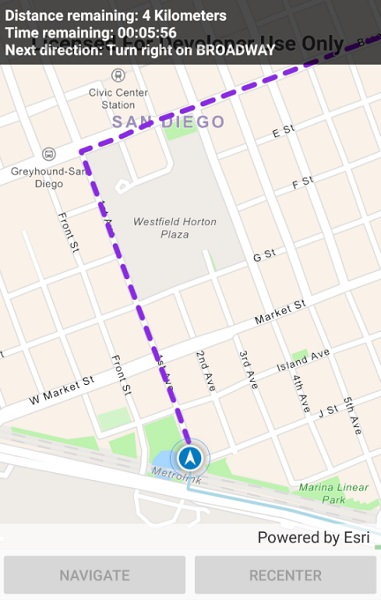
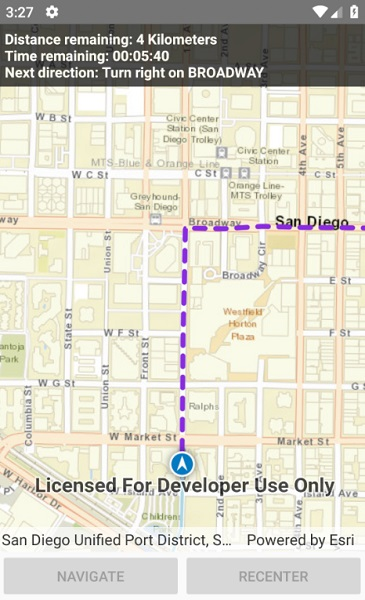
Updated android

diff --git a/src/Android/Xamarin.Android/Samples/Network Analysis/NavigateRoute/NavigateRoute.cs b/src/Android/Xamarin.Android/Samples/Network Analysis/NavigateRoute/NavigateRoute.cs
@@ -43,14 +43,21 @@ namespace ArcGISRuntimeXamarin.Samples.NavigateRoute
         private Button _recenterButton;
         private TextView _status;
 
+        // Variables for tracking the navigation route.
         private RouteTracker _tracker;
         private RouteResult _routeResult;
         private Route _route;
 
+        // List of driving directions for the route.
         private IReadOnlyList<DirectionManeuver> _directionsList;
+
+        // Speech synthesizer to play voice guidance audio.
         private TextToSpeech _textToSpeech;
+
+        // String to hold route status for the UI.
         private string _statusMessage;
 
+        // Graphics to show progress along the route.
         private Graphic _routeAheadGraphic;
         private Graphic _routeTraveledGraphic;
 
@@ -61,7 +68,7 @@ namespace ArcGISRuntimeXamarin.Samples.NavigateRoute
         private readonly MapPoint _destinationLocation = new MapPoint(-117.147230, 32.730467, SpatialReferences.Wgs84);
 
         // Feature service for routing in San Diego.
-        private readonly Uri _routingUri = new Uri("http://sampleserver6.arcgisonline.com/arcgis/rest/services/NetworkAnalysis/SanDiego/NAServer/Route");
+        private readonly Uri _routingUri = new Uri("https://sampleserver6.arcgisonline.com/arcgis/rest/services/NetworkAnalysis/SanDiego/NAServer/Route");
 
         protected override void OnCreate(Bundle bundle)
         {
@@ -78,7 +85,7 @@ namespace ArcGISRuntimeXamarin.Samples.NavigateRoute
             try
             {
                 // Create the map view.
-                _myMapView.Map = new Map(Basemap.CreateNavigationVector());
+                _myMapView.Map = new Map(Basemap.CreateStreets());
 
                 // Create the text to speech object.
                 _textToSpeech = new TextToSpeech(this, this, "com.google.android.tts");
@@ -128,10 +135,13 @@ namespace ArcGISRuntimeXamarin.Samples.NavigateRoute
 
                 // Set the map viewpoint to show the entire route.
                 await _myMapView.SetViewpointGeometryAsync(_route.RouteGeometry, 100);
+
+                // Enable the navigation button.
+                _navigateButton.Enabled = true;
             }
             catch (Exception e)
             {
-                Console.WriteLine(e.Message);
+                new AlertDialog.Builder(this).SetMessage(e.Message).SetTitle("Error").Show();
             }
         }
 
@@ -155,7 +165,7 @@ namespace ArcGISRuntimeXamarin.Samples.NavigateRoute
             _myMapView.LocationDisplay.AutoPanModeChanged += AutoPanModeChanged;
 
             // Add a data source for the location display.
-            _myMapView.LocationDisplay.DataSource = new RouteTrackerLocationDataSource(new FakeLocationProvider(_route.RouteGeometry), _tracker);
+            _myMapView.LocationDisplay.DataSource = new RouteTrackerDisplayLocationDataSource(new FakeLocationProvider(_route.RouteGeometry), _tracker);
             // Use this instead if you want real location:
             // _myMapView.LocationDisplay.DataSource = new RouteTrackerLocationDataSource(new SystemLocationDataSource(), _tracker);
 
@@ -251,12 +261,12 @@ namespace ArcGISRuntimeXamarin.Samples.NavigateRoute
      * This location data source uses an input data source and a route tracker.
      * The location source that it updates is based on the snapped-to-route location from the route tracker.
      */
-    public class RouteTrackerLocationDataSource : LocationDataSource
+    public class RouteTrackerDisplayLocationDataSource : LocationDataSource
     {
         private LocationDataSource _inputDataSource;
         private RouteTracker _routeTracker;
 
-        public RouteTrackerLocationDataSource(LocationDataSource dataSource, RouteTracker routeTracker)
+        public RouteTrackerDisplayLocationDataSource(LocationDataSource dataSource, RouteTracker routeTracker)
         {
             // Set the data source
             _inputDataSource = dataSource ?? throw new ArgumentNullException(nameof(dataSource));

diff --git a/src/Android/Xamarin.Android/Samples/Network Analysis/NavigateRoute/FakeLocationProvider.cs b/src/Android/Xamarin.Android/Samples/Network Analysis/NavigateRoute/FakeLocationProvider.cs
@@ -1,4 +1,13 @@
-using Esri.ArcGISRuntime.Geometry;
+// Copyright 2019 Esri.
+//
+// Licensed under the Apache License, Version 2.0 (the "License"); you may not use this file except in compliance with the License.
+// You may obtain a copy of the License at: http://www.apache.org/licenses/LICENSE-2.0
+//
+// Unless required by applicable law or agreed to in writing, software distributed under the License is distributed on an
+// "AS IS" BASIS, WITHOUT WARRANTIES OR CONDITIONS OF ANY KIND, either express or implied. See the License for the specific
+// language governing permissions and limitations under the License.
+
+using Esri.ArcGISRuntime.Geometry;
 using Esri.ArcGISRuntime.Location;
 using System.Collections.Generic;
 using System.Threading.Tasks;

diff --git a/src/Android/Xamarin.Android/Samples/Network Analysis/NavigateRoute/readme.md b/src/Android/Xamarin.Android/Samples/Network Analysis/NavigateRoute/readme.md
@@ -15,7 +15,7 @@ Click 'Navigate' to simulate travelling and to receive directions from a preset 
 ## How it works
 
 1. Create a `RouteTask` using a URL to an online route service.
-2. Generate default `RouteParameters` using `RouteTask.createDefaultParametersAsync()`.
+2. Generate default `RouteParameters` using `RouteTask.CreateDefaultParametersAsync()`.
 3. Set `ReturnStops` and `ReturnDirections` on the parameters to true.
 4. Add `Stop`s to the parameters for each destination using `SetStops(stops)`.
 5. Solve the route using `RouteTask.SolveRouteAsync(routeParameters)` to get a `RouteResult`.
@@ -39,10 +39,6 @@ Click 'Navigate' to simulate travelling and to receive directions from a preset 
 * RouteTracker
 * Stop
 * VoiceGuidance
-
-## Offline data
-
-None
 
 ## About the data
 
